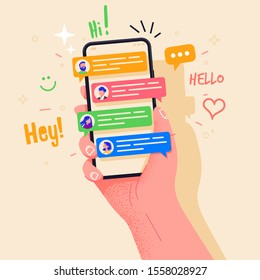
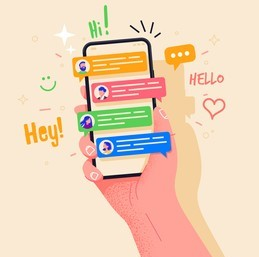
Sign In Page Created

diff --git a/Assets/scss/signin.scss b/Assets/scss/signin.scss
@@ -10,24 +10,23 @@
 .sign-up__container{
     width:100%;
     height:100vh;
-    @include flexcenter(column);
+    @include flexcenter($diretion:column);
     background-image: 
-    linear-gradient(to right,rgba(235, 232, 232,0.1) ,#0675e4),
-    url('/images/SignUp/chat\ Ilus.jpg');
+    linear-gradient(to right,#0675e4,rgba(235, 232, 232,0.1) ),
+    url('/images/SignUp/message.jpg');
     background-repeat: no-repeat;
+    background-position:right;
     background-size: contain;
-    
-
     padding:2rem;
     
     .form-div{
-        align-self: flex-end;
+        align-self: flex-start;
         width:40%;
+        margin-top: 5%;
         @include flexcenter(column);
         gap:2rem;
         .title{
             font-family: 'Courgette', cursive;
-            // font-family: 'Baloo Bhaijaan 2', cursive;
             font-size: 3.5rem;
             margin-bottom: 2rem;
         }

diff --git a/Assets/css/signin.css b/Assets/css/signin.css
@@ -7,14 +7,16 @@
   height: 100vh;
   display: flex;
   flex-direction: column;
-  background-image: linear-gradient(to right, rgba(235, 232, 232, 0.1), #0675e4), url("/images/SignUp/chat Ilus.jpg");
+  background-image: linear-gradient(to right, #0675e4, rgba(235, 232, 232, 0.1)), url("/images/SignUp/message.jpg");
   background-repeat: no-repeat;
+  background-position: right;
   background-size: contain;
   padding: 2rem;
 }
 .sign-up__container .form-div {
-  align-self: flex-end;
+  align-self: flex-start;
   width: 40%;
+  margin-top: 5%;
   display: flex;
   flex-direction: column;
   gap: 2rem;

diff --git a/controllers/user_controller.js b/controllers/user_controller.js
@@ -7,6 +7,13 @@ module.exports.signup = function(req,res){
     });
 }
 
+module.exports.signin = function(req,res){
+    return res.render('signin',{
+        title:'Amylan | Sign In',
+        genre:'signin'
+    });
+}
+
 module.exports.createAccount = async function(req,res){
     try{
         if(req.body.confirmPass != req.body.password) {

diff --git a/routes/user.js b/routes/user.js
@@ -1,6 +1,11 @@
 const express = require('express');
 const router = express.Router();
+
 const userController = require('../controllers/user_controller');
+
 router.get('/sign-up',userController.signup);
 router.post('/create-account',userController.createAccount);
+router.get('/sign-in',userController.signin);
+
+
 module.exports = router;

diff --git a/Assets/scss/_mixins.scss b/Assets/scss/_mixins.scss
@@ -1,0 +1,5 @@
+@mixin flexcenter($diretion) {
+    display: flex;
+    flex-direction: $diretion;
+    
+}
